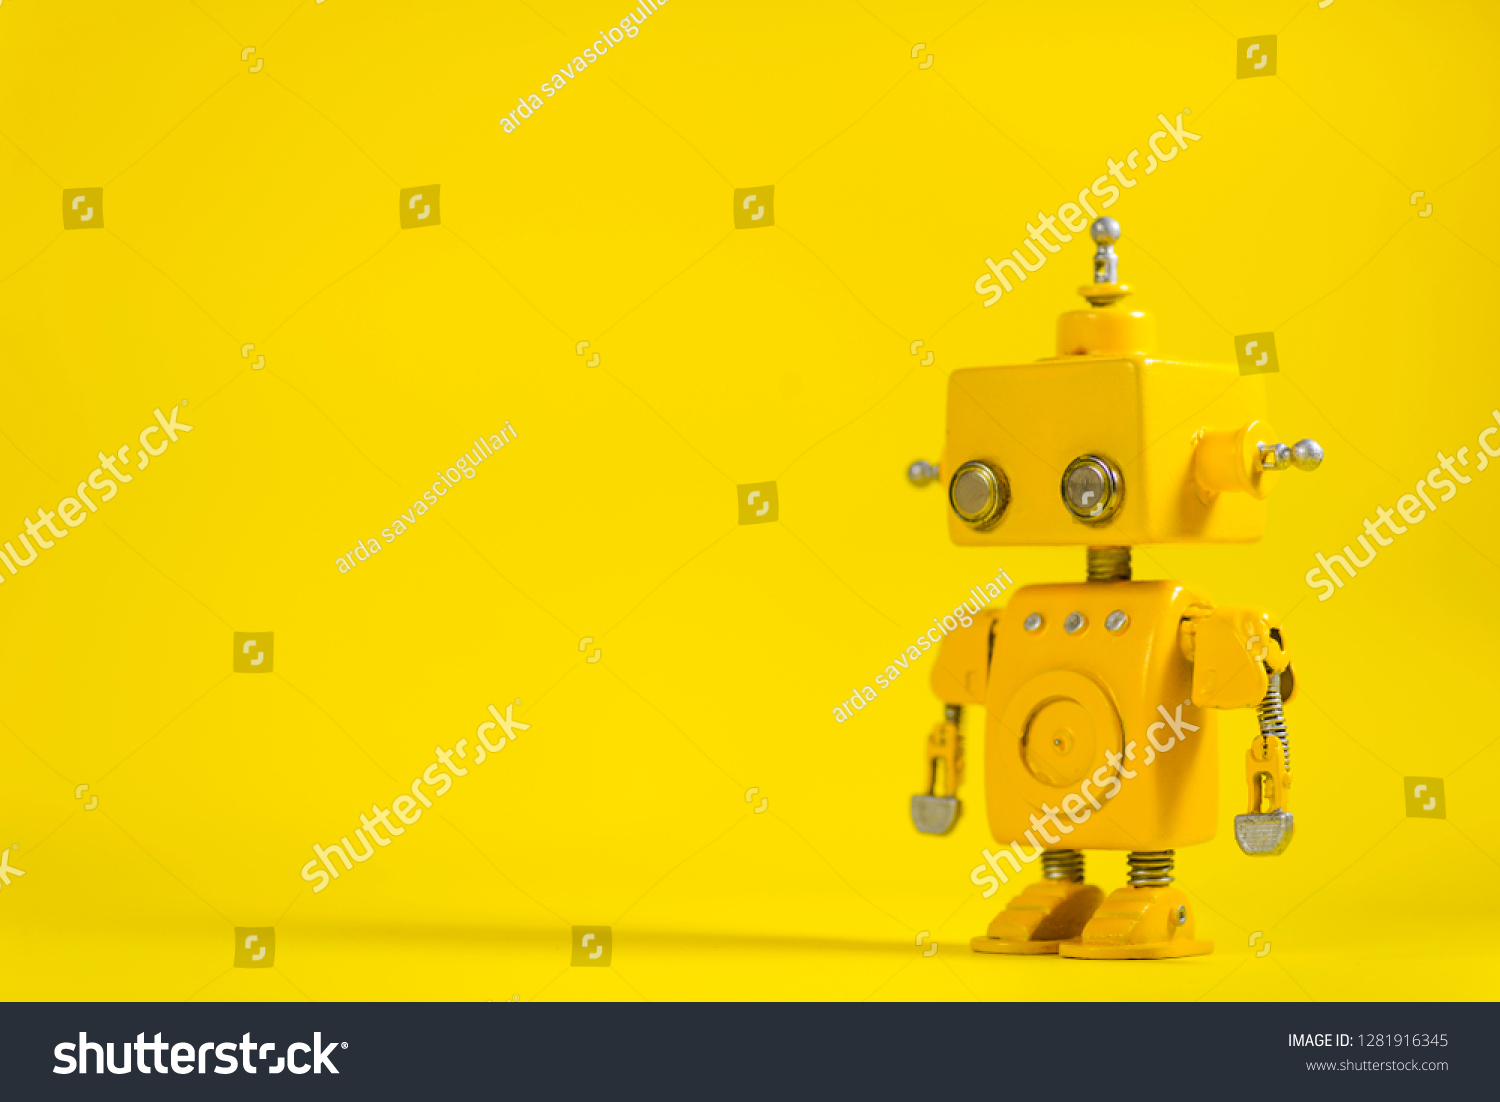
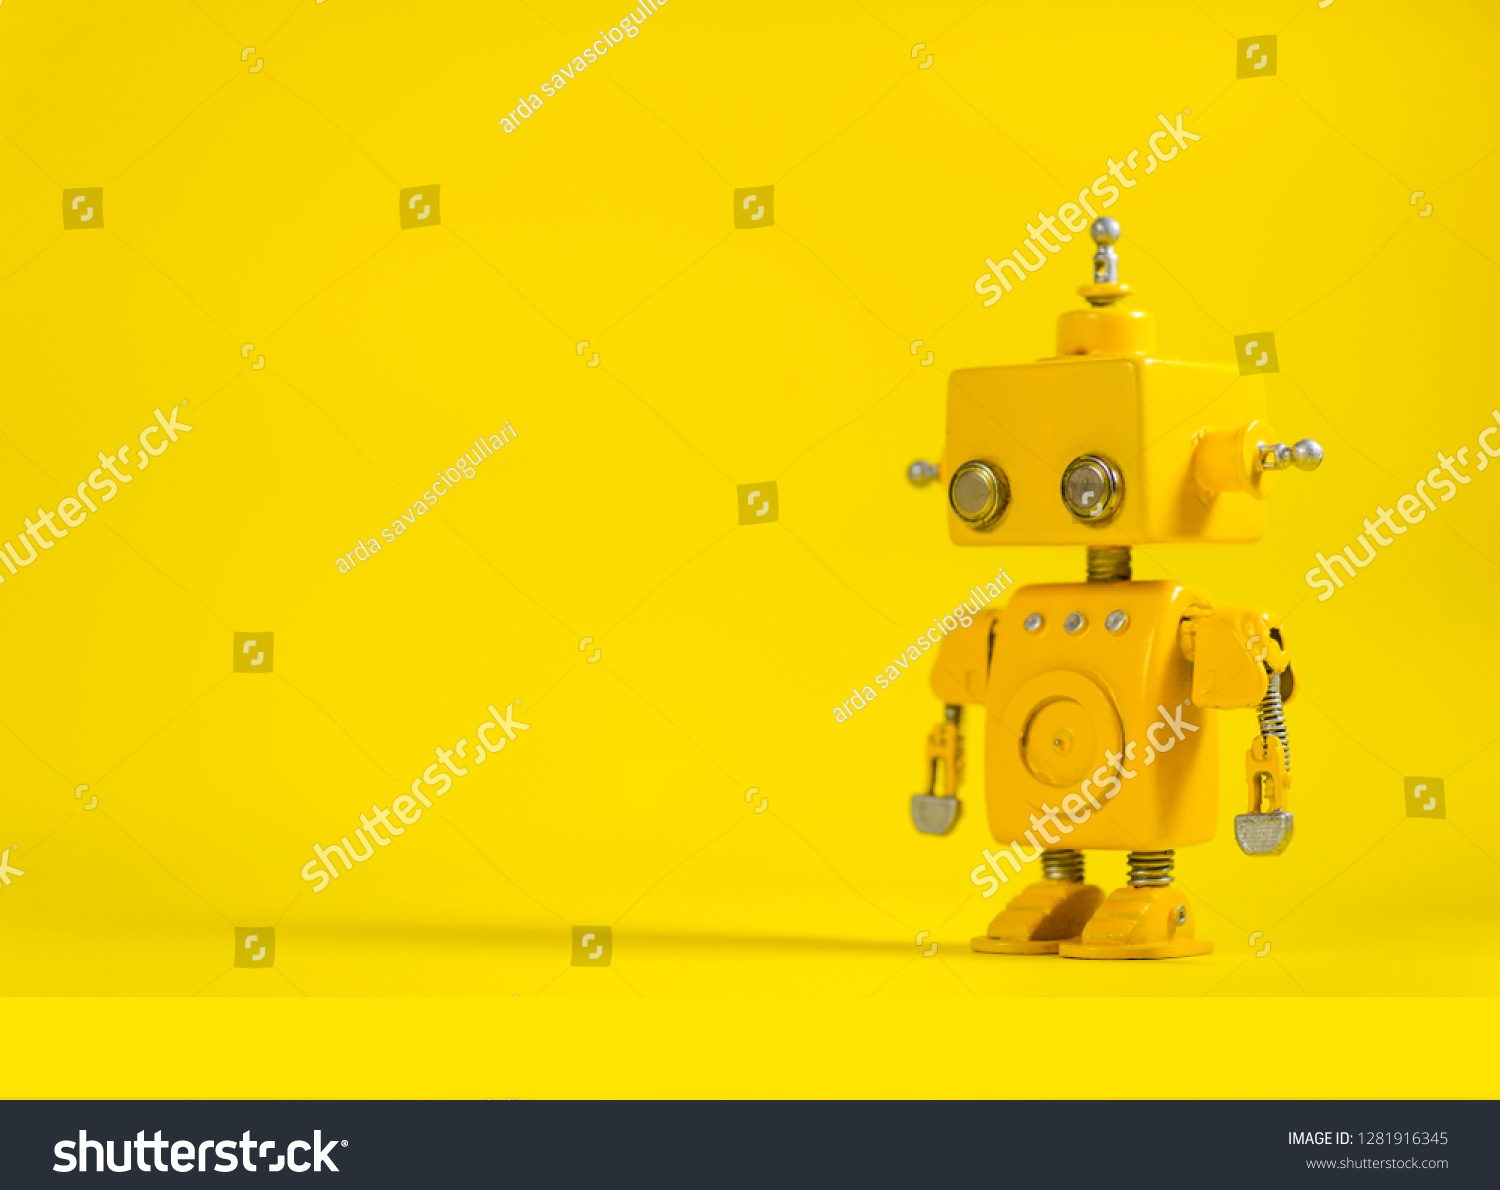
Modified navbar to remain fixed at the top, added a carousel to the home page, and modified a few images in the images folder.

diff --git a/index.html b/index.html
@@ -14,75 +14,152 @@
   </head>
   <body>
     <header>
-      <div class="container m-xs-1 m-sm-3 m-lg-5">
-        <h1 class="fw-bolder">Main Page</h1>
+      <div class="container mx-auto">  
+        <!-- <h1 class="fw-bolder">Main Page</h1> -->
 
-        <nav class="navbar navbar-expand-sm navbar-dark bg-primary">
-          <a class="navbar-brand" href="index.html">
-            <img
-              src="./images/Ai-logo-grayscale-eye-cutout.webp"
-              alt="AI Robots Logo"
-              width="30"
-              height="30"
-              class="d-inline-block align-top"
-            />AI Robots</a
-          >
-          <button
-            class="navbar-toggler"
-            type="button"
-            data-toggle="collapse"
-            data-target="#navbarSupportedContent"
-            aria-controls="navbarSupportedContent"
-            aria-expanded="false"
-            aria-label="Toggle navigation"
-          >
-            <span class="navbar-toggler-icon"></span>
-          </button>
+        <nav
+          class="navbar navbar-expand-lg fixed-top navbar-dark bg-primary"
+        >
+        
+            <a class="navbar-brand" href="index.html">
+              <img
+                src="./images/ai-logo-grayscale-darker-eyecutout.webp"
+                alt="AI Robots Logo"
+                width="35"
+                height="30"
+                class="d-inline-block align-top logo mx-3"
+              />AI Robots</a
+            >
+            <button
+              class="navbar-toggler"
+              type="button"
+              data-bs-toggle="collapse"
+              data-bs-target="#navbarSupportedContent"
+              aria-controls="navbarSupportedContent"
+              aria-expanded="false"
+              aria-label="Toggle navigation"
+            >
+              <span class="navbar-toggler-icon"></span>
+            </button>
 
-          <div class="collapse navbar-collapse" id="navbarSupportedContent">
-            <ul class="navbar-nav mr-auto">
-              <li class="nav-item">
-                <a href="./index.html" class="nav-link active">Home</a>
-              </li>
-              <li class="nav-item">
-                <a href="./products.html" class="nav-link">Products</a>
-              </li>
-              <li class="nav-item">
-                <a href="./login.html" class="nav-link">My Account</a>
-              </li>
-              <li class="nav-item">
-                <a href="./checkout.html" class="nav-link">checkout</a>
-              </li>
-            </ul>
+            <div class="collapse navbar-collapse" id="navbarSupportedContent">
+              <ul class="navbar-nav mr-auto">
+                <li class="nav-item">
+                  <a href="./index.html" class="nav-link active">Home</a>
+                </li>
+                <li class="nav-item">
+                  <a href="./products.html" class="nav-link">Products</a>
+                </li>
+                <li class="nav-item">
+                  <a href="./login.html" class="nav-link">My Account</a>
+                </li>
+                <li class="nav-item">
+                  <a href="./checkout.html" class="nav-link">Checkout</a>
+                </li>
+              </ul>
+            </div>
           </div>
         </nav>
       </div>
     </header>
     <!-- diff b/w container and container fluid? -->
-    <main class="container m-xs-1 m-sm-3 m-lg-5">
-      <carousel></carousel>
-      <div class="row">
-        <div class="col-sm-5 my-auto text-center">
-          <p>Robot Description 1</p>
+    <main>
+      <div class="container mx-auto pt-0 pl-xs-2 pr-xs-2 pl-md-4 pl-md-4 pr-md-4 pl-lg-6 pr-lg-6">
+        <!-- Carousel Start -->
+        <div
+          id="carouselWelcome"
+          class="carousel slide"
+          data-bs-ride="carousel"
+        >
+          <div class="carousel-indicators">
+            <button
+              type="button"
+              data-bs-target="#carouselWelcome"
+              data-bs-slide-to="0"
+              class="active"
+              aria-current="true"
+              aria-label="Welcome 1"
+            ></button>
+            <button
+              type="button"
+              data-bs-target="#carouselWelcome"
+              data-bs-slide-to="1"
+              aria-label="Welcome 2"
+            ></button>
+            <button
+              type="button"
+              data-bs-target="#carouselWelcome"
+              data-bs-slide-to="2"
+              aria-label="Welcome 3"
+            ></button>
+          </div>
+          <div class="carousel-inner">
+            <div class="carousel-item active">
+              <img
+                class="d-block w-100"
+                src="./images/main-robot-hand.jpg"
+                alt="First slide"
+              />
+            </div>
+            <!-- Include button to products -->
+            <div class="carousel-item">
+              <img
+                class="d-block w-100"
+                src="./images/network-global-communication.jpg"
+                alt="Second slide"
+              />
+            </div>
+            <div class="carousel-item">
+              <img
+                class="d-block w-100"
+                src="./images/yellow-background-cute-yellow-handmade-robot-on-a-yellow-background-1281916345 - Copy.jpg"
+                alt="Third slide"
+              />
+            </div>
+          </div>
+          <button
+            class="carousel-control-prev"
+            data-bs-target="#carouselWelcome"
+            type="button"
+            data-bs-slide="prev"
+          >
+            <span class="carousel-control-prev-icon" aria-hidden="true"></span>
+            <span class="visually-hidden">Previous</span>
+          </button>
+          <button
+            class="carousel-control-next"
+            data-bs-target="#carouselWelcome"
+            type="button"
+            data-bs-slide="next"
+          >
+            <span class="carousel-control-next-icon" aria-hidden="true"></span>
+            <span class="visually-hidden">Next</span>
+          </button>
         </div>
-        <div class="col-sm-6 offset-sm-1">
-          <img
-            src="./images//White-world-and-yellow-handmade-robot.jpg"
-            alt="Toy robot looking at a Globe."
-            class="img-fluid"
-          />
+        <!-- content start -->
+        <div class="row">
+          <div class="col-sm-5 my-auto text-center">
+            <p>Robot Description 1</p>
+          </div>
+          <div class="col-sm-6 offset-sm-1">
+            <img
+              src="./images//White-world-and-yellow-handmade-robot.jpg"
+              alt="Toy robot looking at a Globe."
+              class="img-fluid"
+            />
+          </div>
         </div>
-      </div>
-      <div class="row mt-5">
-        <div class="col-sm-5 float-left">
-          <img
-            src="./images/Woodenver-wooden-robot-toy-environmentally-friendly-toys-for-children.jpg"
-            alt="Wooden Robot Looking Right"
-            class="img-fluid"
-          />
-        </div>
-        <div class="col-sm-6 offset-1 my-auto text-center">
-          <p>Robot Description 2</p>
+        <div class="row mt-5">
+          <div class="col-sm-5 float-left">
+            <img
+              src="./images/Woodenver-wooden-robot-toy-environmentally-friendly-toys-for-children.jpg"
+              alt="Wooden Robot Looking Right"
+              class="img-fluid"
+            />
+          </div>
+          <div class="col-sm-6 offset-1 my-auto text-center">
+            <p>Robot Description 2</p>
+          </div>
         </div>
       </div>
     </main>

diff --git a/registration.html b/registration.html
@@ -17,21 +17,21 @@
       <div class="container m-xs-1 m-sm-3 m-lg-5">
         <h1 class="fw-bolder">Register</h1>
 
-        <nav class="navbar navbar-expand-sm navbar-dark bg-primary">
+        <nav class="navbar navbar-expand-lg fixed-top navbar-dark bg-primary">
           <a class="navbar-brand" href="index.html">
             <img
               src="./images/Ai-logo-grayscale-eye-cutout.webp"
               alt="AI Robots Logo"
-              width="30"
+              width="35"
               height="30"
-              class="d-inline-block align-top"
+              class="d-inline-block align-top logo mx-3"
             />AI Robots</a
           >
           <button
             class="navbar-toggler"
             type="button"
-            data-toggle="collapse"
-            data-target="#navbarSupportedContent"
+            data-bs-toggle="collapse"
+            data-bs-target="#navbarSupportedContent"
             aria-controls="navbarSupportedContent"
             aria-expanded="false"
             aria-label="Toggle navigation"
@@ -42,16 +42,16 @@
           <div class="collapse navbar-collapse" id="navbarSupportedContent">
             <ul class="navbar-nav mr-auto">
               <li class="nav-item">
-                <a href="./index.html" class="nav-link active">Home</a>
+                <a href="./index.html" class="nav-link">Home</a>
               </li>
               <li class="nav-item">
                 <a href="./products.html" class="nav-link">Products</a>
               </li>
               <li class="nav-item">
-                <a href="./login.html" class="nav-link">My Account</a>
+                <a href="./login.html" class="nav-link active">My Account</a>
               </li>
               <li class="nav-item">
-                <a href="./checkout.html" class="nav-link">checkout</a>
+                <a href="./checkout.html" class="nav-link">Checkout</a>
               </li>
             </ul>
           </div>

diff --git a/login.html b/login.html
@@ -17,21 +17,21 @@
       <div class="container m-xs-1 m-sm-3 m-lg-5">
         <h1 class="fw-bolder">Login</h1>
 
-        <nav class="navbar navbar-expand-sm navbar-dark bg-primary">
+        <nav class="navbar navbar-expand-lg fixed-top navbar-dark bg-primary">
           <a class="navbar-brand" href="index.html">
             <img
               src="./images/Ai-logo-grayscale-eye-cutout.webp"
               alt="AI Robots Logo"
-              width="30"
+              width="35"
               height="30"
-              class="d-inline-block align-top"
+              class="d-inline-block align-top logo mx-3"
             />AI Robots</a
           >
           <button
             class="navbar-toggler"
             type="button"
-            data-toggle="collapse"
-            data-target="#navbarSupportedContent"
+            data-bs-toggle="collapse"
+            data-bs-target="#navbarSupportedContent"
             aria-controls="navbarSupportedContent"
             aria-expanded="false"
             aria-label="Toggle navigation"
@@ -42,16 +42,16 @@
           <div class="collapse navbar-collapse" id="navbarSupportedContent">
             <ul class="navbar-nav mr-auto">
               <li class="nav-item">
-                <a href="./index.html" class="nav-link active">Home</a>
+                <a href="./index.html" class="nav-link">Home</a>
               </li>
               <li class="nav-item">
                 <a href="./products.html" class="nav-link">Products</a>
               </li>
               <li class="nav-item">
-                <a href="./login.html" class="nav-link">My Account</a>
+                <a href="./login.html" class="nav-link active">My Account</a>
               </li>
               <li class="nav-item">
-                <a href="./checkout.html" class="nav-link">checkout</a>
+                <a href="./checkout.html" class="nav-link">Checkout</a>
               </li>
             </ul>
           </div>

diff --git a/checkout.html b/checkout.html
@@ -17,21 +17,21 @@
       <div class="container m-xs-1 m-sm-3 m-lg-5">
         <h1 class="fw-bolder">Checkout</h1>
 
-        <nav class="navbar navbar-expand-sm navbar-dark bg-primary">
+        <nav class="navbar navbar-expand-lg fixed-top navbar-dark bg-primary">
           <a class="navbar-brand" href="index.html">
             <img
               src="./images/Ai-logo-grayscale-eye-cutout.webp"
               alt="AI Robots Logo"
-              width="30"
+              width="35"
               height="30"
-              class="d-inline-block align-top"
+              class="d-inline-block align-top logo mx-3"
             />AI Robots</a
           >
           <button
             class="navbar-toggler"
             type="button"
-            data-toggle="collapse"
-            data-target="#navbarSupportedContent"
+            data-bs-toggle="collapse"
+            data-bs-target="#navbarSupportedContent"
             aria-controls="navbarSupportedContent"
             aria-expanded="false"
             aria-label="Toggle navigation"
@@ -42,7 +42,7 @@
           <div class="collapse navbar-collapse" id="navbarSupportedContent">
             <ul class="navbar-nav mr-auto">
               <li class="nav-item">
-                <a href="./index.html" class="nav-link active">Home</a>
+                <a href="./index.html" class="nav-link">Home</a>
               </li>
               <li class="nav-item">
                 <a href="./products.html" class="nav-link">Products</a>
@@ -51,7 +51,7 @@
                 <a href="./login.html" class="nav-link">My Account</a>
               </li>
               <li class="nav-item">
-                <a href="./checkout.html" class="nav-link">checkout</a>
+                <a href="./checkout.html" class="nav-link active">Checkout</a>
               </li>
             </ul>
           </div>

diff --git a/products.html b/products.html
@@ -17,21 +17,21 @@
       <div class="container m-xs-1 m-sm-3 m-lg-5">
         <h1 class="fw-bolder">Products</h1>
 
-        <nav class="navbar navbar-expand-sm navbar-dark bg-primary">
+        <nav class="navbar navbar-expand-lg fixed-top navbar-dark bg-primary">
           <a class="navbar-brand" href="index.html">
             <img
               src="./images/Ai-logo-grayscale-eye-cutout.webp"
               alt="AI Robots Logo"
-              width="30"
+              width="35"
               height="30"
-              class="d-inline-block align-top"
+              class="d-inline-block align-top logo mx-3"
             />AI Robots</a
           >
           <button
             class="navbar-toggler"
             type="button"
-            data-toggle="collapse"
-            data-target="#navbarSupportedContent"
+            data-bs-toggle="collapse"
+            data-bs-target="#navbarSupportedContent"
             aria-controls="navbarSupportedContent"
             aria-expanded="false"
             aria-label="Toggle navigation"
@@ -51,7 +51,7 @@
                 <a href="./login.html" class="nav-link">My Account</a>
               </li>
               <li class="nav-item">
-                <a href="./checkout.html" class="nav-link">checkout</a>
+                <a href="./checkout.html" class="nav-link">Checkout</a>
               </li>
             </ul>
           </div>

diff --git a/css/commerce.css b/css/commerce.css
@@ -3,3 +3,10 @@
     border-color: black;
     border-style: solid;
 }
+.logo {
+    margin: 0 5px 0 5px;
+}
+.carousel-item {
+
+    max-height: 750px;
+}
